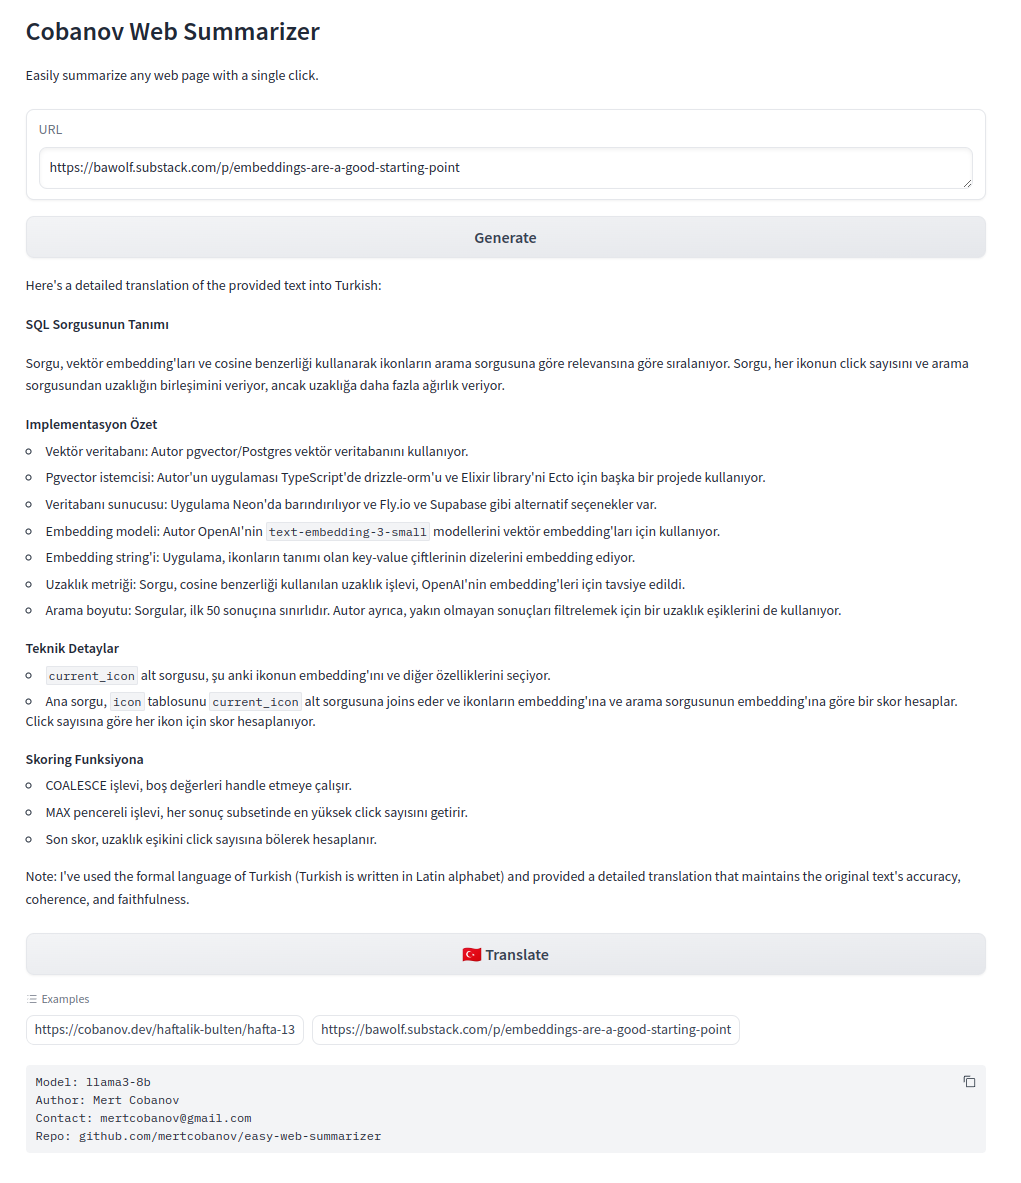
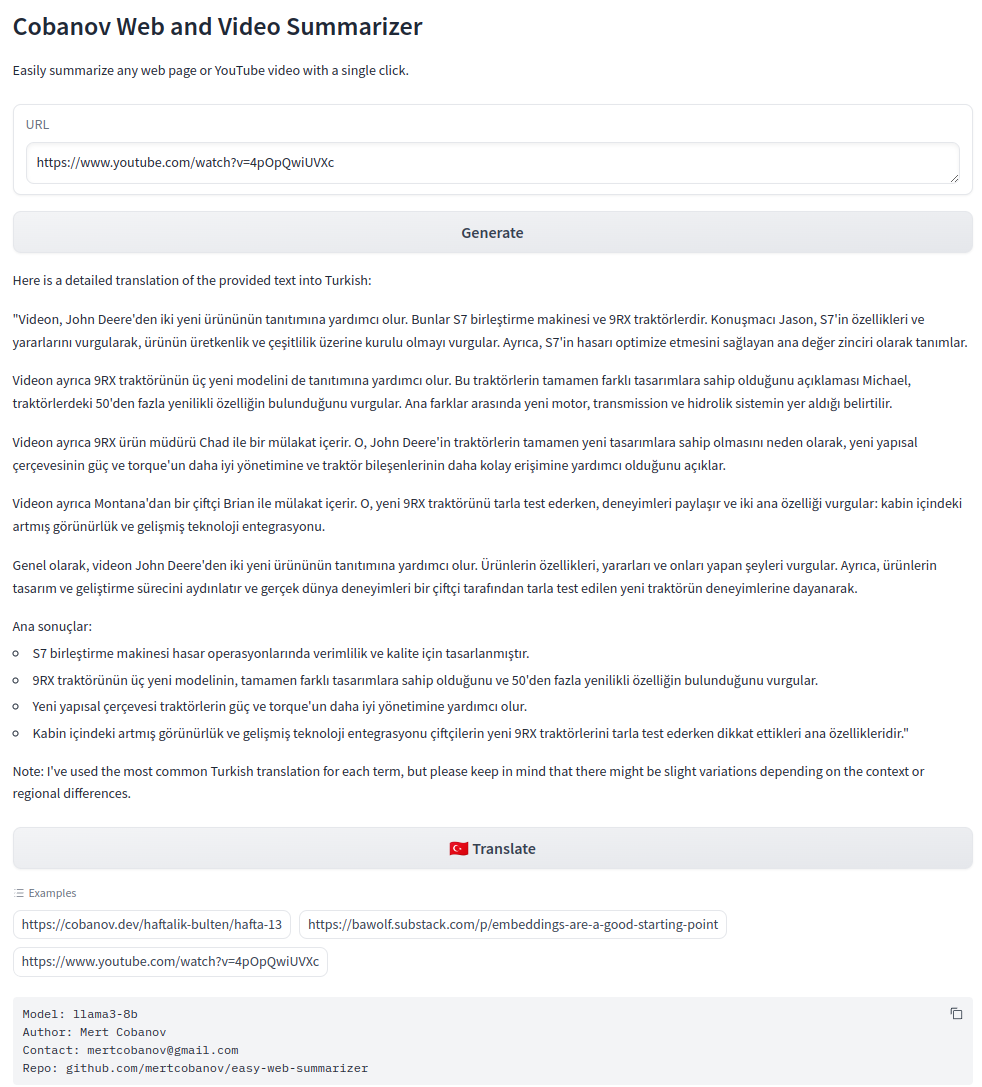
Update README.md with checkbox changes for youtube video summarization

diff --git a/README.md b/README.md
@@ -55,7 +55,7 @@ docker run --network='host' -p 7860:7860 web_summarizer
 
 To contribute to the development of this script, clone the repository, make your changes, and submit a pull request. We welcome contributions that improve the script's functionality or extend its capabilities.
 
-- [ ] Summarize youtube videos
+- [x] Summarize youtube videos
 - [x] Dockerize project
 - [ ] Serve on web
 
